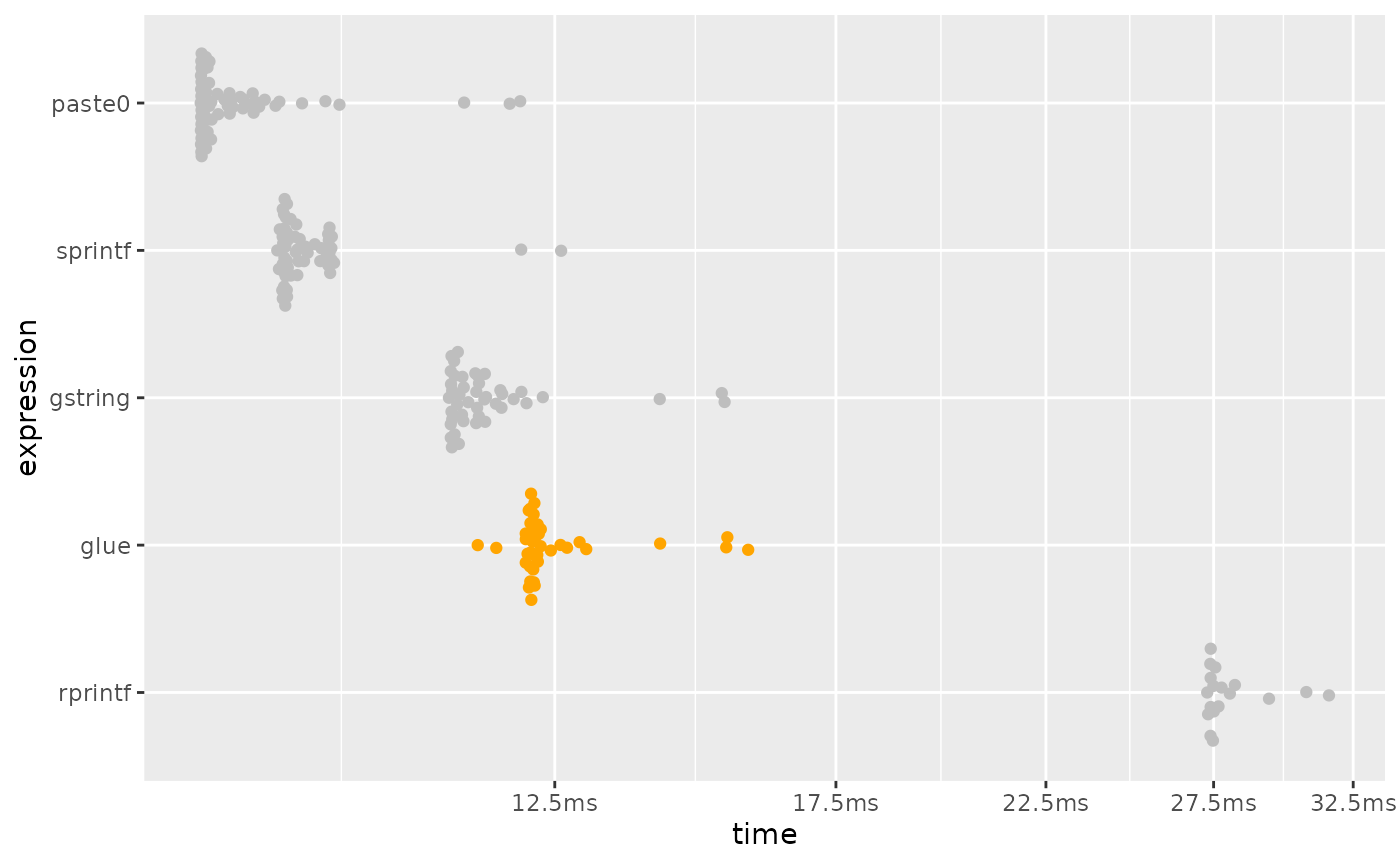
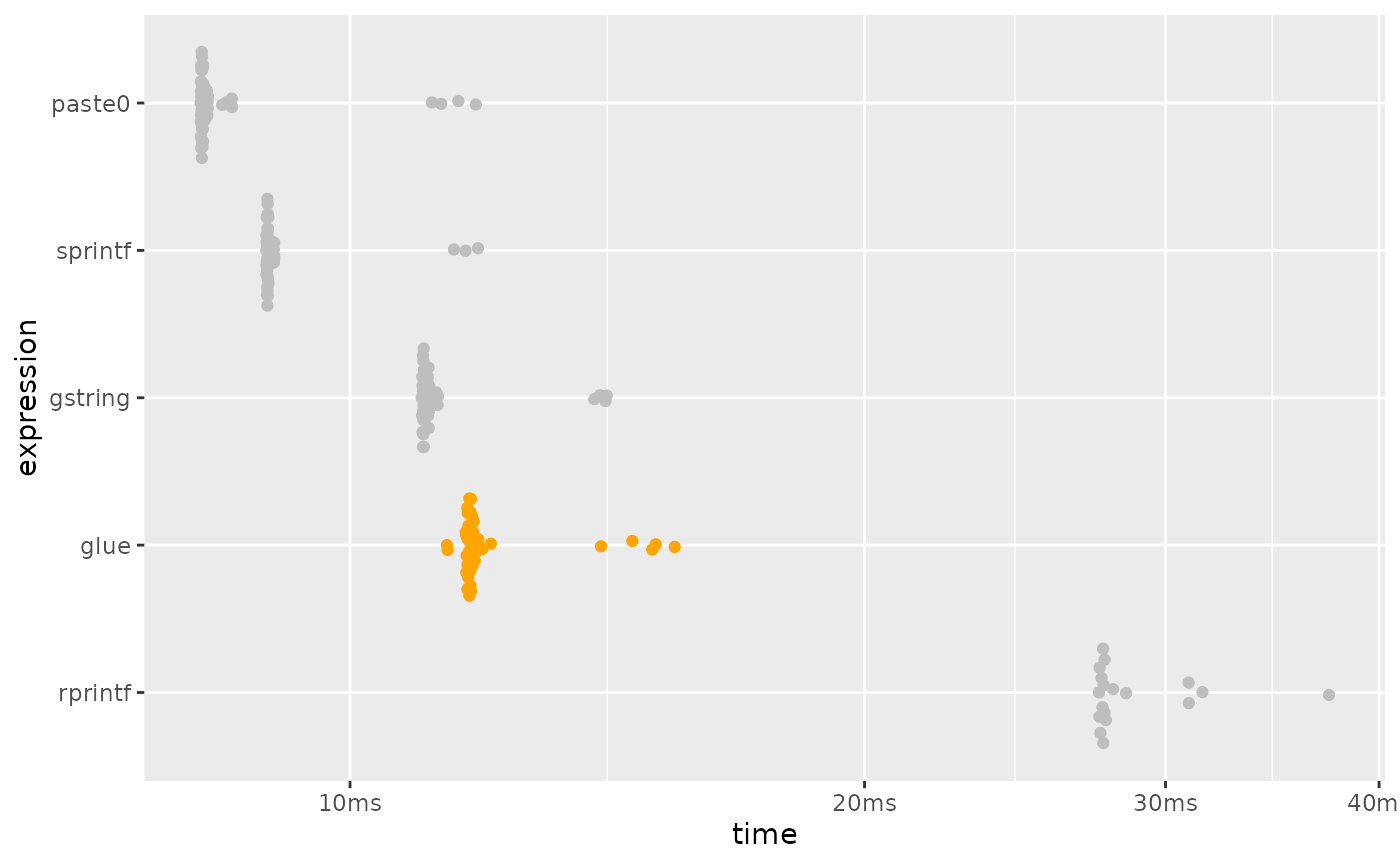
Deploying to gh-pages from @ tidyverse/glue@d560ad109e099cee090fc1ca35e4b5997a7f4b1c 🚀

diff --git a/dev/articles/speed.html b/dev/articles/speed.html
@@ -152,11 +152,11 @@ this benchmark, but is now formally marked as “superseded”, in favor of
 <span><span class="co">#&gt; <span style="color: #949494;"># A tibble: 5 × 6</span></span></span>
 <span><span class="co">#&gt;   expression      min   median `itr/sec` mem_alloc `gc/sec`</span></span>
 <span><span class="co">#&gt;   <span style="color: #949494; font-style: italic;">&lt;bch:expr&gt;</span> <span style="color: #949494; font-style: italic;">&lt;bch:tm&gt;</span> <span style="color: #949494; font-style: italic;">&lt;bch:tm&gt;</span>     <span style="color: #949494; font-style: italic;">&lt;dbl&gt;</span> <span style="color: #949494; font-style: italic;">&lt;bch:byt&gt;</span>    <span style="color: #949494; font-style: italic;">&lt;dbl&gt;</span></span></span>
-<span><span class="co">#&gt; <span style="color: #BCBCBC;">1</span> sprintf       751ns 801.05ns  1<span style="text-decoration: underline;">146</span>935.        0B     0   </span></span>
-<span><span class="co">#&gt; <span style="color: #BCBCBC;">2</span> paste0       1.52µs   1.72µs   <span style="text-decoration: underline;">548</span>588.        0B    54.9 </span></span>
-<span><span class="co">#&gt; <span style="color: #BCBCBC;">3</span> glue       101.68µs 107.47µs     <span style="text-decoration: underline;">9</span>042.  140.44KB    25.0 </span></span>
-<span><span class="co">#&gt; <span style="color: #BCBCBC;">4</span> gstring    221.81µs 230.74µs     <span style="text-decoration: underline;">4</span>244.    2.45MB    14.7 </span></span>
-<span><span class="co">#&gt; <span style="color: #BCBCBC;">5</span> rprintf     276.9µs 285.45µs     <span style="text-decoration: underline;">3</span>444.  503.39KB     8.24</span></span>
+<span><span class="co">#&gt; <span style="color: #BCBCBC;">1</span> sprintf    721.08ns 771.02ns  1<span style="text-decoration: underline;">201</span>788.        0B     0   </span></span>
+<span><span class="co">#&gt; <span style="color: #BCBCBC;">2</span> paste0       1.45µs   1.65µs   <span style="text-decoration: underline;">574</span>125.        0B    57.4 </span></span>
+<span><span class="co">#&gt; <span style="color: #BCBCBC;">3</span> glue        99.17µs 106.83µs     <span style="text-decoration: underline;">9</span>116.  140.44KB    24.8 </span></span>
+<span><span class="co">#&gt; <span style="color: #BCBCBC;">4</span> gstring    223.19µs 233.46µs     <span style="text-decoration: underline;">4</span>176.    2.45MB    14.7 </span></span>
+<span><span class="co">#&gt; <span style="color: #BCBCBC;">5</span> rprintf    275.86µs 282.36µs     <span style="text-decoration: underline;">3</span>486.  503.39KB     8.24</span></span>
 <span></span>
 <span><span class="co"># plotting function defined in a hidden chunk</span></span>
 <span><span class="fu">plot_comparison</span><span class="op">(</span><span class="va">simple</span><span class="op">)</span></span>
@@ -205,11 +205,11 @@ performance is much closer to that of <code><a href="https://rdrr.io/r/base/past
 <span><span class="co">#&gt; <span style="color: #949494;"># A tibble: 5 × 6</span></span></span>
 <span><span class="co">#&gt;   expression      min   median `itr/sec` mem_alloc `gc/sec`</span></span>
 <span><span class="co">#&gt;   <span style="color: #949494; font-style: italic;">&lt;bch:expr&gt;</span> <span style="color: #949494; font-style: italic;">&lt;bch:tm&gt;</span> <span style="color: #949494; font-style: italic;">&lt;bch:tm&gt;</span>     <span style="color: #949494; font-style: italic;">&lt;dbl&gt;</span> <span style="color: #949494; font-style: italic;">&lt;bch:byt&gt;</span>    <span style="color: #949494; font-style: italic;">&lt;dbl&gt;</span></span></span>
-<span><span class="co">#&gt; <span style="color: #BCBCBC;">1</span> paste0       8.18ms   8.26ms     119.    781.3KB     6.36</span></span>
-<span><span class="co">#&gt; <span style="color: #BCBCBC;">2</span> sprintf      8.97ms    9.1ms     109.    781.3KB     4.18</span></span>
-<span><span class="co">#&gt; <span style="color: #BCBCBC;">3</span> gstring     11.01ms  11.21ms      88.1    1.53MB     6.45</span></span>
-<span><span class="co">#&gt; <span style="color: #BCBCBC;">4</span> glue         11.4ms  12.19ms      81.5    2.29MB     6.61</span></span>
-<span><span class="co">#&gt; <span style="color: #BCBCBC;">5</span> rprintf     27.29ms  27.48ms      36.1    3.05MB     4.52</span></span>
+<span><span class="co">#&gt; <span style="color: #BCBCBC;">1</span> paste0       8.18ms    8.2ms     121.    781.3KB     6.35</span></span>
+<span><span class="co">#&gt; <span style="color: #BCBCBC;">2</span> sprintf      8.93ms   8.95ms     112.    781.3KB     6.43</span></span>
+<span><span class="co">#&gt; <span style="color: #BCBCBC;">3</span> gstring     11.01ms  11.06ms      90.2    1.53MB     8.80</span></span>
+<span><span class="co">#&gt; <span style="color: #BCBCBC;">4</span> glue         11.4ms  11.76ms      85.1    2.29MB    11.5 </span></span>
+<span><span class="co">#&gt; <span style="color: #BCBCBC;">5</span> rprintf     27.43ms  27.58ms      36.2    3.05MB    10.3</span></span>
 <span></span>
 <span><span class="co"># plotting function defined in a hidden chunk</span></span>
 <span><span class="fu">plot_comparison</span><span class="op">(</span><span class="va">vectorized</span><span class="op">)</span></span></code></pre></div>
